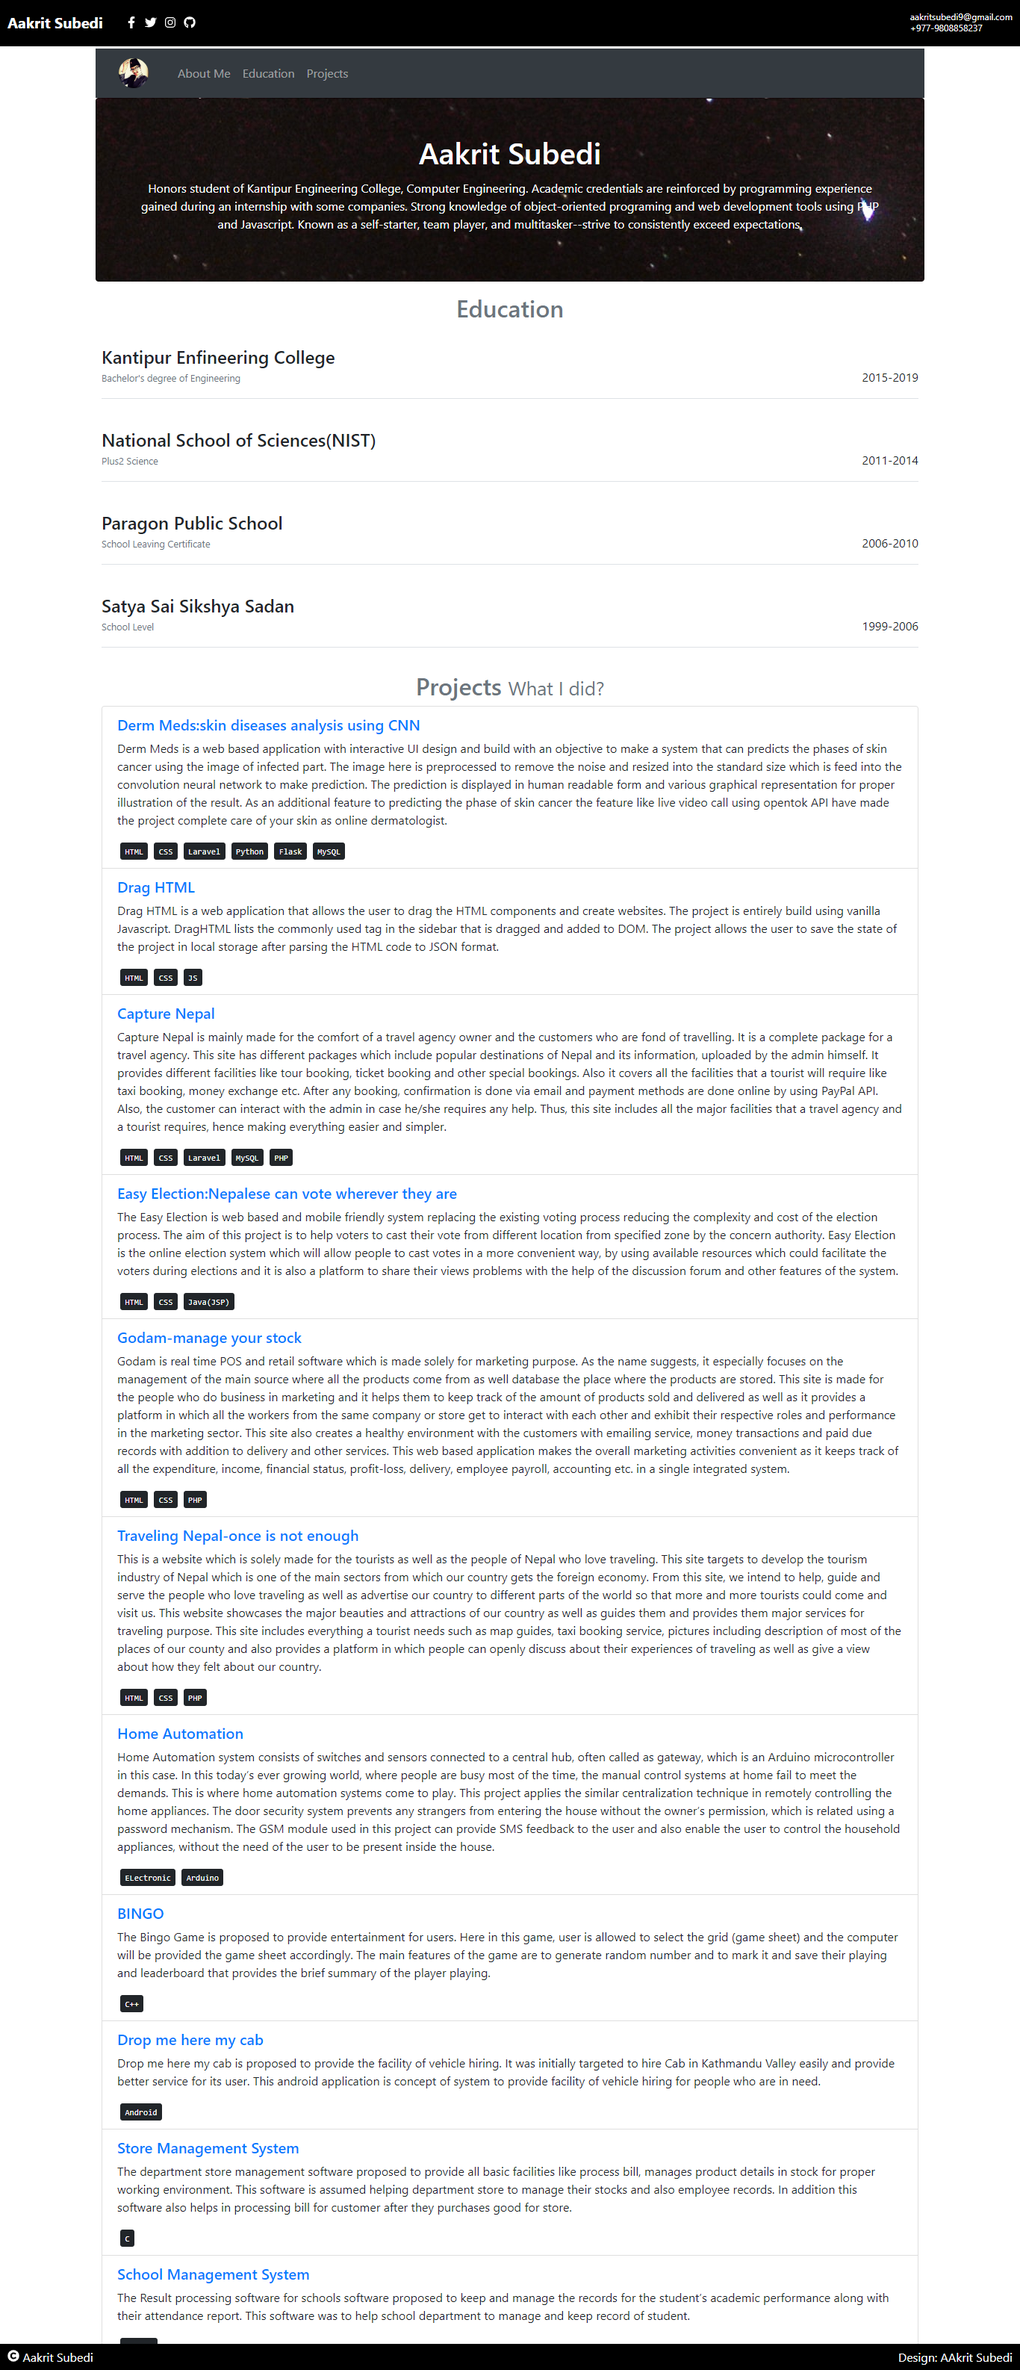
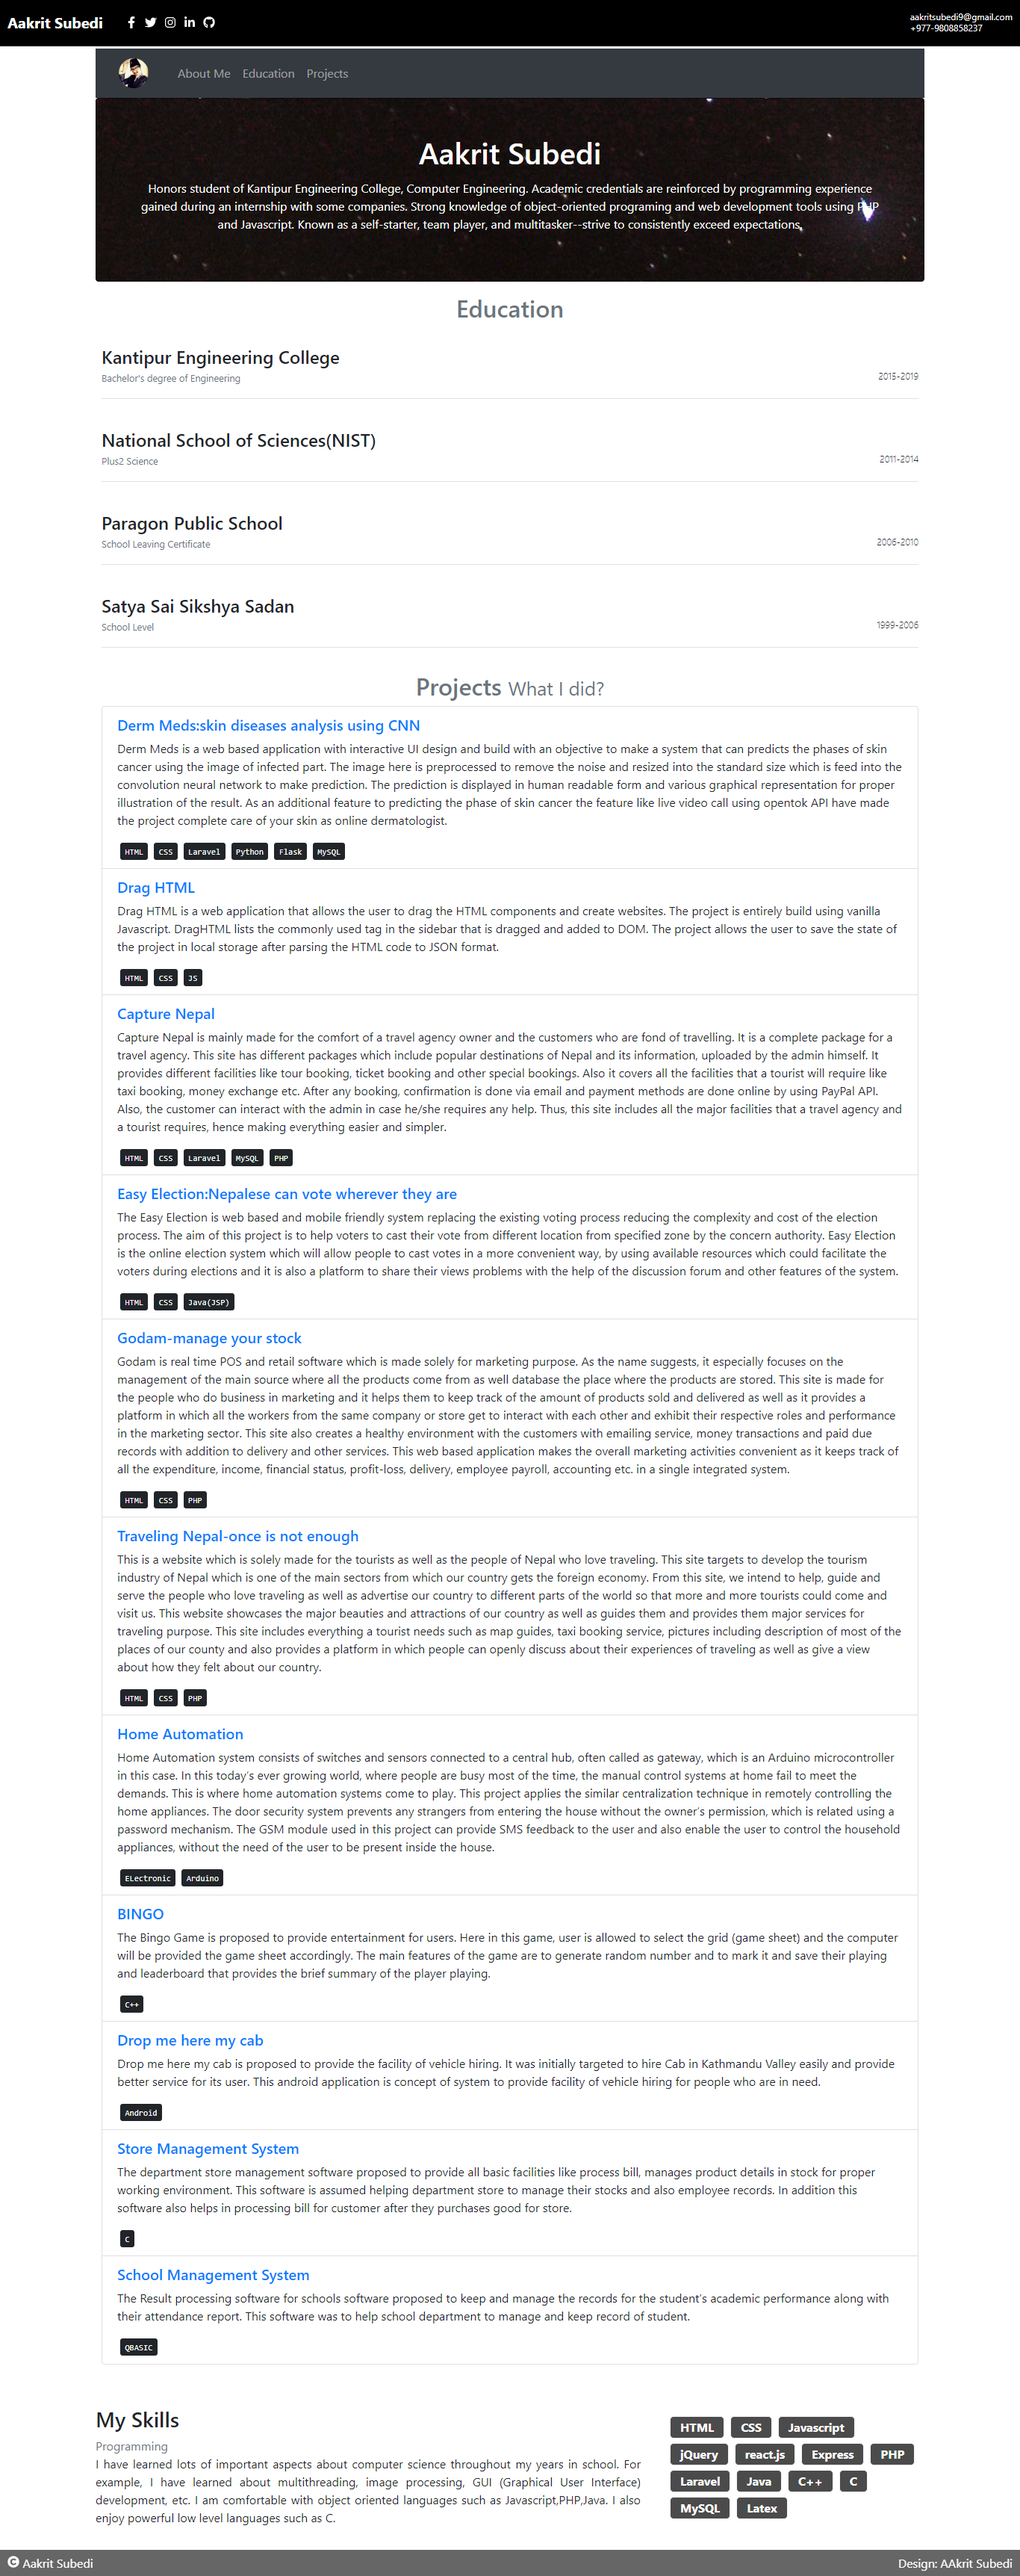
Skills Set Updated

Changed region(s): [[0.0, 0.0, 1.0, 1.0], [0.8917, 0.0, 0.9839, 0.0312], [0.8609, 0.1872, 0.8917, 0.2496]]

diff --git a/src/Constants/myInfo.js b/src/Constants/myInfo.js
@@ -1,14 +1,17 @@
 import React from 'react';
 
-import { FaFacebookF,FaTwitter,FaInstagram,FaGithub } from "react-icons/fa";
+import { FaFacebookF,FaTwitter,FaInstagram,FaLinkedinIn,FaGithub } from "react-icons/fa";
 let allData = {
     myInfo:{
         name: 'Aakrit Subedi',
         email: 'aakritsubedi9@gmail.com',
         contact: '+977-9808858237',
+        location: 'Basundhara,Kathmandu',
         img: 'http://aakritsubedi.com.np/images/profile_new.jpg',
         aboutMe: 'Honors student of Kantipur Engineering College, Computer Engineering. Academic credentials are reinforced by programming experience gained during an internship with some companies. Strong knowledge of object-oriented programing and web development tools using PHP and Javascript. Known as a self-starter, team player, and multitasker--strive to consistently exceed expectations.',
         bgImg: 'https://images.unsplash.com/photo-1533294455009-a77b7557d2d1?ixlib:rb-1.2.1&auto:format&fit:crop&w:750&q:80',
+        skills: ['HTML','CSS','Javascript','jQuery','react.js','Express','PHP','Laravel','Java','C++','C','MySQL','Latex'],
+        skillsContent: 'I have learned lots of important aspects about computer science throughout my years in school. For example, I have learned about multithreading, image processing, GUI (Graphical User Interface) development, etc. I am comfortable with object oriented languages such as Javascript,PHP,Java. I also enjoy powerful low level languages such as C.',
         website: 'http://aakritsubedi.com.np'
     },
     socialMediaData:[
@@ -28,7 +31,12 @@ let allData = {
             link: 'https://www.instagram.com/aakrit_subedi'
         },
         {
-            id:4,
+            id: 4,
+            iconOf: <FaLinkedinIn/>,
+            link: 'https://www.linkedin.com/in/aakrit-subedi-942a5875/'
+        },
+        {
+            id:5,
             iconOf: <FaGithub/>,
             link: 'https://www.github.com/aakritsubedi'
         }
@@ -36,7 +44,7 @@ let allData = {
     myEducation:[
         {
             date: '2015-2019',
-            collegeName: 'Kantipur Enfineering College',
+            collegeName: 'Kantipur Engineering College',
             title: 'Bachelor\'s degree of Engineering'
         },
         {

diff --git a/src/Container/Portfolio.js b/src/Container/Portfolio.js
@@ -9,6 +9,7 @@ import Footer from '../Components/Footer/Footer';
 
 
 import * as myData from '../Constants/myInfo';
+import Skills from '../Components/Skills/Skills';
 
 class Portfolio extends Component{
     constructor(){
@@ -42,7 +43,7 @@ class Portfolio extends Component{
     render(){
         let portfolio=(
             <>
-                <div className='container'>
+                <div className='container' style={{paddingBottom:'50px'}}>
                 <TopNav data={this.socialMediaData} myInfo={this.myInfo}/>
                 <div className='main-content'>
                     <MainNav myInfo={this.myInfo} navItems={this.navItems}/>
@@ -60,6 +61,7 @@ class Portfolio extends Component{
                         </div>
                     </div>
                 </div>
+                <Skills mySkills={this.myInfo.skills} skillContent={this.myInfo.skillsContent}/>
                 </div>
                 <Footer name={this.myInfo.name}/>
             </>

diff --git a/src/Components/Skills/Skills.js b/src/Components/Skills/Skills.js
@@ -1,0 +1,25 @@
+import React from 'react';
+
+function Skills(props){
+    let mySkills = props.mySkills.map((item,index)=>{
+        return (<li key={index}>{item} </li>);
+    })
+    let skills=(
+        <div className='row mt-5'>
+            <div className='col-md-8'>
+                <h3>My Skills</h3>
+                <span className='text-muted mb-3'>Programming</span>
+                <p className='text-justify'>
+                {props.skillContent}
+                </p>
+            </div>
+            <div className='col-md-4'>
+                <ul className='skills'>
+                    {mySkills}
+                </ul>
+            </div>
+        </div>
+    )   
+    return skills;
+}
+export default Skills

diff --git a/src/App.css b/src/App.css
@@ -56,7 +56,25 @@
   border-radius: 50%;
   margin:0 15px;
 }
-
+/* Skills */
+.skills{
+  list-style: none;
+  padding:10px 5px;
+}
+.skills li{
+  float: left;
+  width: auto;
+  padding:2px 13px;
+  border: 1px solid #f4f4f4;
+  margin:3px 4px;
+  background-color: #4C4B4B;
+  color: #ffffff;
+  border-radius: 5px;
+  font-weight: bold;
+}
+.skills li:hover{
+  background-color: #2C3335;
+}
 /* Footer */
 .footer{
   background-color: #000000;

diff --git a/src/Components/Education/Education.js b/src/Components/Education/Education.js
@@ -7,7 +7,7 @@ function Education(props){
                 <br/>
                 <span className='h4'>{elements.collegeName}</span><br/>
                 <small className='text-muted'>{elements.title}</small>
-                <span className='float-right'>{elements.date}</span>
+                <small className='float-right font-weight-light'>{elements.date}</small>
             </li>
         );
     })
